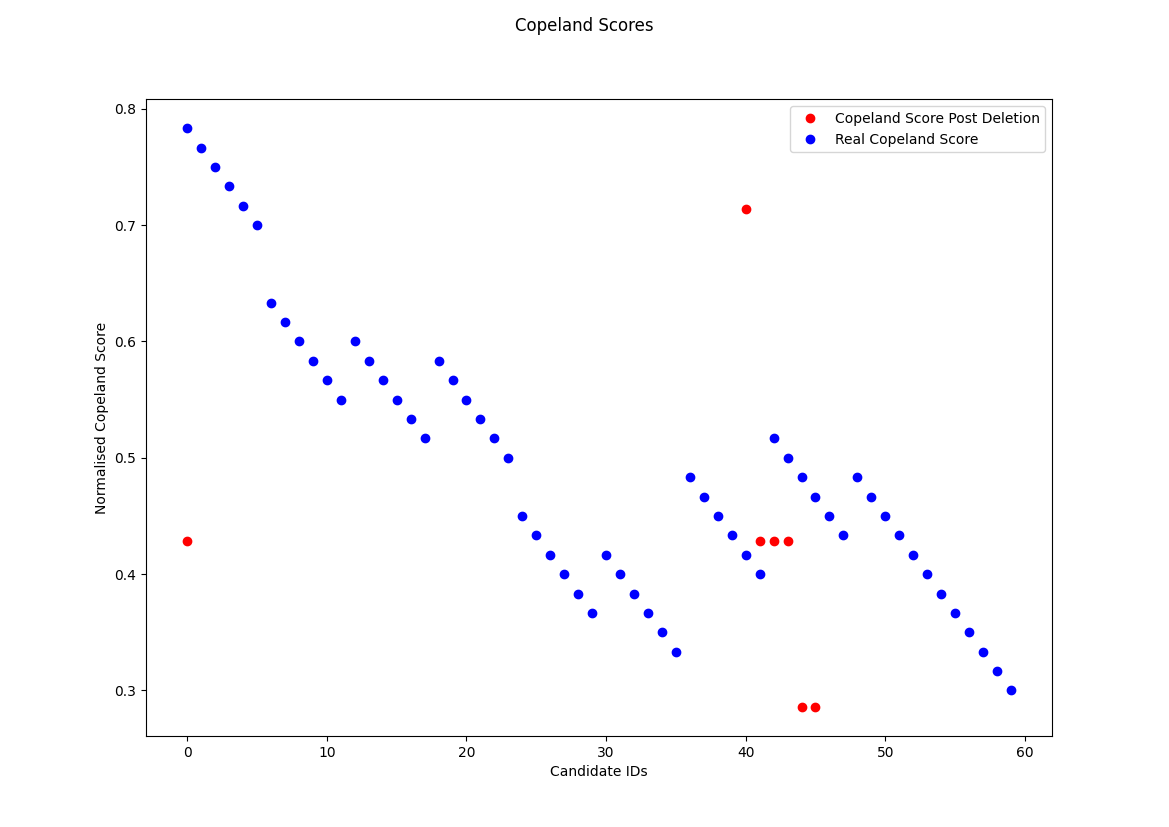
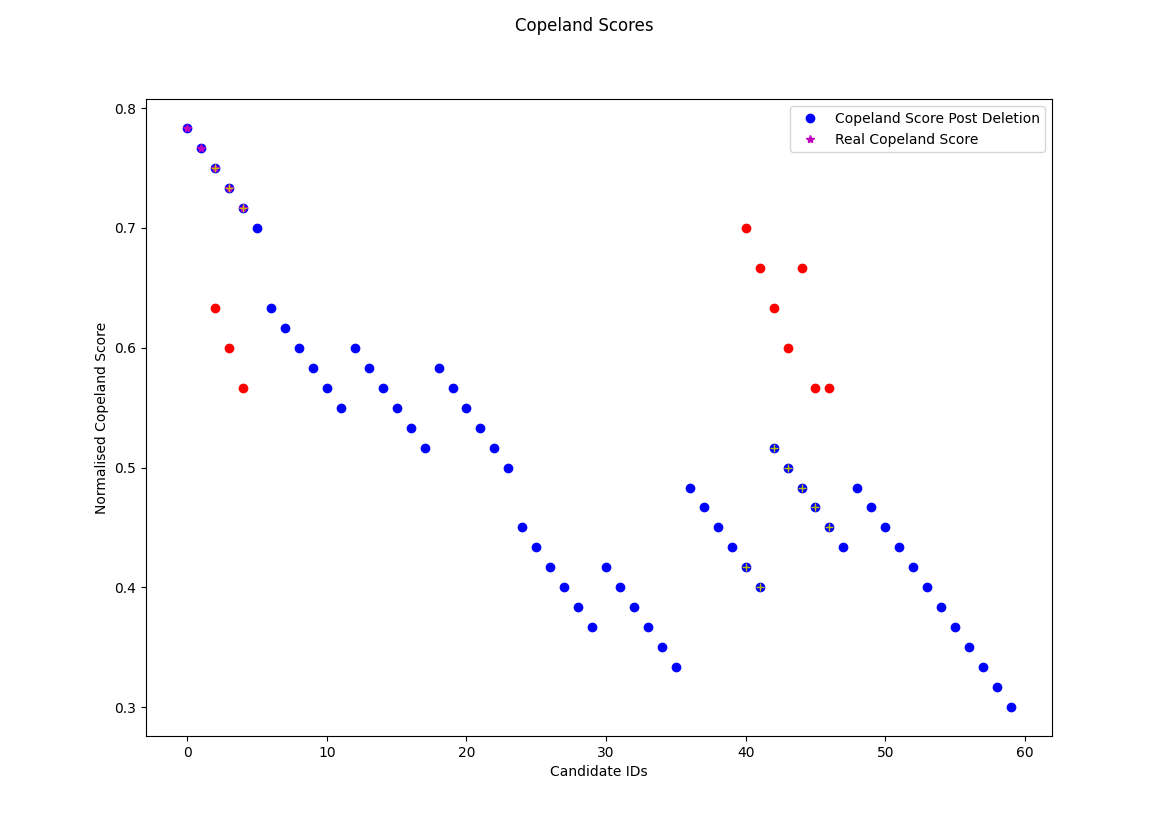
change in copelandWrapper indexing method used

diff --git a/deletion_copeland.py b/deletion_copeland.py
@@ -4,6 +4,7 @@ TODO:
     - [ ] Put deletion step as a function.
 '''
 
+from numpy.core.fromnumeric import sort
 import iterative_copeland as ic
 import pickle
 import numpy as np
@@ -15,7 +16,7 @@ from os.path import isfile, join
 
 import matplotlib.pyplot as plt
 
-def copelandWrapper(preference_profile_segment):
+def copelandWrapper(preference_profile_segment, surviving_candidates):
     agents = len(preference_profile_segment[0]) - 1
     candidates = len(preference_profile_segment)
     # calculation of pairwise score and copeland score
@@ -28,40 +29,34 @@ def copelandWrapper(preference_profile_segment):
     no_of_deleted_candidates = len(
         preference_profile_segment) - surviving_candidates
     # Takes the highest x candidates
-    to_be_deleted = sorted_copeland_score[0:no_of_deleted_candidates]
-
-    preference_profile_segment = [i for x, i in enumerate(
-        preference_profile_segment) if x not in to_be_deleted]
-    copeland_score = [i for x, i in enumerate(
-        copeland_score) if x not in to_be_deleted]
+    to_be_kept = sorted_copeland_score[no_of_deleted_candidates:]
+    assert len(sorted_copeland_score) == len(copeland_score) == preference_profile_segment.shape[0]
+    preference_profile_segment = [preference_profile_segment[x] for x in to_be_kept] #[i for x, i in enumerate(preference_profile_segment) if x not in to_be_deleted]
+    copeland_score = [copeland_score[x] for x in to_be_kept] #[i for x, i in enumerate(copeland_score) if x not in to_be_deleted]
     assert len(preference_profile_segment) == len(copeland_score)
     return (preference_profile_segment, copeland_score)
 
+def benchmark(indexes, deletion_copeland_scores, copeland_scores):
+    pass
 
 def deletionCopeland(preference_profile, step, surviving_candidates):
     # Processing the data.
     candidates = len(preference_profile)
     agents = len(preference_profile[0])
-    i_preference_profile = []
+    i_preference_profile = None
     for i in range(0, candidates, step):
         # Growing set of candidiates.
-        i_preference_profile.extend(preference_profile[i: i+step])
-        score_list = ic.pairwiseScoreCalcListFull(
-            i_preference_profile, len(i_preference_profile), agents)
-        copeland_score = ic.copelandScoreFull(
-            score_list, len(i_preference_profile), agents)
-
-        sorted_copeland_score = np.argsort(copeland_score)
-        no_of_deleted_candidates = len(
-            i_preference_profile) - surviving_candidates
-
-        to_be_deleted = sorted_copeland_score[0:no_of_deleted_candidates]
-        i_preference_profile = [i for j, i in enumerate(
-            i_preference_profile) if j not in to_be_deleted]
-    score_list = ic.pairwiseScoreCalcListFull(
-        i_preference_profile, len(i_preference_profile), agents)
-    copeland_score = ic.copelandScoreFull(
-        score_list, len(i_preference_profile), agents)
+        if i == 0:
+            i_preference_profile = preference_profile[0:step]
+        else: 
+            i_preference_profile = np.append(
+                i_preference_profile, preference_profile[i: i+step], axis=0)
+        i_preference_profile, copeland_score = copelandWrapper(
+            i_preference_profile, surviving_candidates)
+    # score_list = ic.pairwiseScoreCalcListFull(
+    #     i_preference_profile, len(i_preference_profile), agents)
+    # copeland_score = ic.copelandScoreFull(
+    #     score_list, len(i_preference_profile), agents)
     return (i_preference_profile, copeland_score)
 
 def deletionCopelandFamily(preference_profile, step, surviving_candidates):
@@ -79,7 +74,7 @@ def deletionCopelandFamily(preference_profile, step, surviving_candidates):
             i_preference_profile = np.append(
                 i_preference_profile, preference_profile[i: i+step], axis=0)
         i_preference_profile, copeland_score = copelandWrapper(
-            i_preference_profile)
+            i_preference_profile, surviving_candidates)
         # Storing preference profile and associated copeland score
         familyipp.append(i_preference_profile)
         familycs.append(copeland_score)
@@ -103,7 +98,7 @@ def plot(directory, filename, step, surviving_candidates, show_plots_during_exec
         preference_profile, 0, range(candidates), axis=1)
 
     score_list = ic.pairwiseScoreCalcListFull(
-        preference_profile[1:], candidates, agents)
+        preference_profile[:, 1:], candidates, agents)
     true_copeland_score = ic.copelandScoreFull(score_list, candidates, agents)
     # Relative Copeland Score
     true_copeland_score = [i/candidates for i in true_copeland_score]
@@ -111,17 +106,19 @@ def plot(directory, filename, step, surviving_candidates, show_plots_during_exec
 
     ipp, cs = deletionCopeland(
         preference_profile, step, surviving_candidates)
-    cs = [i/len(cs) for i in cs]
-    not_deleted_candidate_ids = []
-    for i, x in enumerate(preference_profile.tolist()):
-        if x in np.array(ipp).tolist():
-            not_deleted_candidate_ids.append(i)
-
+    cs = [i/(step+surviving_candidates) for i in cs]
+    not_deleted_candidate_ids = np.stack(ipp, axis=0)[:, 0].tolist()
+    winners_index = np.argsort(true_copeland_score)[-5:].tolist()
+    winners_value = [true_copeland_score[x] for x in winners_index]
+    true_copeland_score_deletion_labels = [true_copeland_score[i] for i in not_deleted_candidate_ids]    
+    
     fig, (ax1) = plt.subplots(1)
     fig.suptitle('Copeland Scores')
     fig.set_size_inches(11.69, 8.27)
+    ax1.plot(true_copeland_score, 'bo')
+    ax1.plot(winners_index, winners_value, 'm*')
     ax1.plot(not_deleted_candidate_ids, cs, 'ro')
-    ax1.plot(range(candidates), true_copeland_score, 'bo')
+    ax1.plot(not_deleted_candidate_ids, true_copeland_score_deletion_labels, 'y+')
     # encircled_true_copeland_scores = []
     # ax1.plot(, true_copeland_score, 'ro')
     ax1.legend(['Copeland Score Post Deletion', 'Real Copeland Score'])
@@ -160,6 +157,7 @@ def plot_gif(directory, filename, step, surviving_candidates):
     for i in range(len(familyipp)):
         not_deleted_candidate_id = np.stack(
             familyipp[i], axis=0)[:, 0].tolist()
+        true_copeland_score_deletion_labels = [true_copeland_score[i] for i in not_deleted_candidate_id]
         # print(not_deleted_candidate_id)
         cs = familycs[i]
         cs = [j/(step+surviving_candidates) for j in cs]
@@ -170,6 +168,7 @@ def plot_gif(directory, filename, step, surviving_candidates):
         ax1.plot(true_copeland_score, 'bo')
         ax1.plot(winners_index, winners_value, 'm*')
         ax1.plot(not_deleted_candidate_id, cs, 'ro')
+        ax1.plot(not_deleted_candidate_id, true_copeland_score_deletion_labels, 'y+')
         ax1.legend(['Real Copeland Score', 'Copeland Score Post Deletion'])
         ax1.set_xlabel('Candidate IDs')
         ax1.set_ylabel('Normalised Copeland Score')
@@ -195,19 +194,19 @@ if __name__ == "__main__":
     PLOT_GIFS = True
     benchmarks = ["project_assignment", "photo_placement"]
     step = 20
-    surviving_candidates = 7
+    surviving_candidates = 10
     profile_types = ["inverted", "normal", "random", "search_more"]
     for benchmark in benchmarks:
         print("🟢 Running " + benchmark)
         for i in ['1', '2', '3', '4', '5', '6']:  # , '1','2','3','4', '5', '6'
             for profile_type in profile_types:
-                # try:
-                #     plot(benchmark, profile_type+str(i), step,
-                #          surviving_candidates, SHOW_PLOTS_DURING_EXECUTION)
-                plot_gif(benchmark, profile_type+str(i),
-                            step, surviving_candidates)
-                print("    " + profile_type+str(i))
-                # except Exception as e:
-                #     print(e)
-                #     None
+                try:
+                    plot(benchmark, profile_type+str(i), step,
+                            surviving_candidates, SHOW_PLOTS_DURING_EXECUTION)
+                    plot_gif(benchmark, profile_type+str(i),
+                                step, surviving_candidates)
+                    print("    " + profile_type+str(i))
+                except Exception as e:
+                    # print(e)
+                    None
         change_frame_rate(benchmark)
